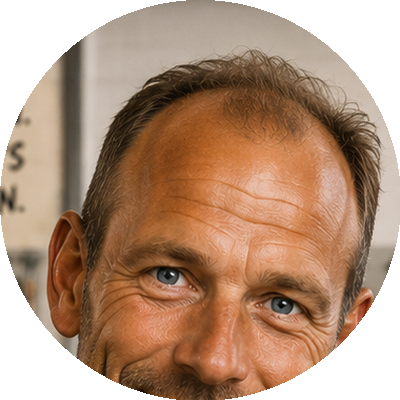
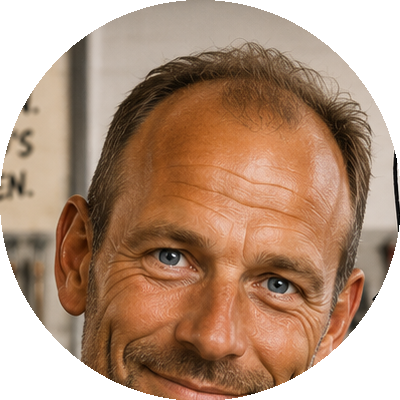
Add files via upload

diff --git a/styles.css b/styles.css
@@ -1173,24 +1173,26 @@ hr { border: none; border-top: 1px solid var(--border-light); margin: 2rem 0; }
 /* ===== KNIGGE-TIPP (Maskottchen-Hinweisbox) ===== */
 .knigge-tip {
   display: flex;
-  align-items: flex-start;
-  gap: 1rem;
+  align-items: center;
+  gap: 0.85rem;
   background: var(--green-50);
   border: 1px solid var(--green-100);
   border-left: 4px solid var(--gold-600);
   border-radius: var(--radius);
-  padding: 1.1rem 1.3rem;
+  padding: 0.95rem 1.3rem;
   margin: 1.75rem 0;
   box-shadow: var(--shadow-xs);
 }
 .knigge-tip-avatar {
   flex: 0 0 auto;
-  width: 52px;
-  height: 52px;
+  width: 34px;
+  height: 34px;
   border-radius: 50%;
   overflow: hidden;
   border: 2px solid var(--white);
   box-shadow: 0 2px 6px rgba(10,28,22,0.18);
+  align-self: flex-start;
+  margin-top: 0.15rem;
 }
 .knigge-tip-avatar img {
   width: 100%;
@@ -1198,28 +1200,6 @@ hr { border: none; border-top: 1px solid var(--border-light); margin: 2rem 0; }
   object-fit: cover;
 }
 .knigge-tip-body { flex: 1 1 auto; }
-.knigge-tip-name {
-  font-family: var(--font-display);
-  font-weight: 800;
-  font-size: 0.92rem;
-  color: var(--green-800);
-  margin-bottom: 0.25rem;
-  display: flex;
-  align-items: center;
-  gap: 0.4rem;
-}
-.knigge-tip-name::after {
-  content: 'Praxis-Tipp';
-  font-family: var(--font-body);
-  font-weight: 700;
-  font-size: 0.68rem;
-  letter-spacing: 0.04em;
-  text-transform: uppercase;
-  color: var(--gold-700);
-  background: var(--gold-100);
-  padding: 0.15rem 0.55rem;
-  border-radius: var(--radius-pill);
-}
 .knigge-tip-body p {
   margin: 0;
   color: var(--text-body);

diff --git a/index.html b/index.html
@@ -61,18 +61,10 @@
           <p class="lead">Der moderne Autoknigge verbindet souveränes Verhalten im Straßenverkehr <br class="desktop-br">mit praxisnahen Anleitungen zur Fahrzeugpflege, Behördengängen und den besten Spartipps für Versicherung und Autokauf.</p>
         </div>
         <div class="hero-portrait">
-          <img src="knigge-hero.jpg" alt="Herr Knigge erklärt Kfz-Themen einfach, ehrlich und auf den Punkt" loading="eager">
+          <img src="knigge-hero.jpg" alt="Knigge erklärt Kfz-Themen einfach, ehrlich und auf den Punkt" loading="eager">
         </div>
       </div>
     </section>
-
-    <div class="knigge-tip">
-      <div class="knigge-tip-avatar"><img src="knigge-avatar.png" alt="Herr Knigge"></div>
-      <div class="knigge-tip-body">
-        <div class="knigge-tip-name">Herr Knigge</div>
-        <p>Die meisten Autofahrer verschenken jedes Jahr Geld – nicht aus Unwissen, sondern weil Fristen und Kleingedrucktes einfach übersehen werden. Mein Rat: Nehmen Sie sich einmal im Jahr zehn Minuten für Versicherung, Zulassung und Wartung. Das zahlt sich fast immer aus.</p>
-      </div>
-    </div>
 
     <!-- KATEGORIE 1: VERSICHERUNG -->
     <section id="versicherung" class="topic-section">

diff --git a/artikel-sf-klassen.html b/artikel-sf-klassen.html
@@ -45,10 +45,9 @@
     <p class="lead">Die Schadenfreiheitsklasse (SF-Klasse) ist einer der wichtigsten Faktoren für Ihre Kfz-Versicherungsprämie. Erfahren Sie, wie sie berechnet wird, wie Sie sie verbessern können und wie Sie mit unserem interaktiven Rechner Ihre Einstufung prüfen.</p>
 
     <div class="knigge-tip">
-      <div class="knigge-tip-avatar"><img src="knigge-avatar.png" alt="Herr Knigge"></div>
+      <div class="knigge-tip-avatar"><img src="knigge-avatar.png" alt="Knigge"></div>
       <div class="knigge-tip-body">
-        <div class="knigge-tip-name">Herr Knigge</div>
-        <p>Bei einem sehr kleinen Schaden lohnt sich oft die Kopfrechnung: Vergleichen Sie die Selbstzahlung mit den Mehrkosten durch die Rückstufung über mehrere Jahre – meist ist Selbstzahlen günstiger.</p>
+        <p><strong>Knigge meint:</strong> Bei einem sehr kleinen Schaden lohnt sich oft die Kopfrechnung: Vergleichen Sie die Selbstzahlung mit den Mehrkosten durch die Rückstufung über mehrere Jahre – meist ist Selbstzahlen günstiger.</p>
       </div>
     </div>
 

diff --git a/artikel-auto-verkaufen.html b/artikel-auto-verkaufen.html
@@ -118,10 +118,9 @@
     <p class="lead">Der Verkauf eines Autos kann auf verschiedene Weise erfolgen. Mit der richtigen Vorbereitung und den passenden Tipps erzielen Sie den besten Preis und vermeiden Ärger.</p>
 
     <div class="knigge-tip">
-      <div class="knigge-tip-avatar"><img src="knigge-avatar.png" alt="Herr Knigge"></div>
+      <div class="knigge-tip-avatar"><img src="knigge-avatar.png" alt="Knigge"></div>
       <div class="knigge-tip-body">
-        <div class="knigge-tip-name">Herr Knigge</div>
-        <p>Ehrlichkeit zahlt sich beim Verkauf aus: Nennen Sie bekannte Mängel offen im Inserat. Das schafft Vertrauen und erspart Ihnen Diskussionen bei der Besichtigung.</p>
+        <p><strong>Knigge meint:</strong> Ehrlichkeit zahlt sich beim Verkauf aus: Nennen Sie bekannte Mängel offen im Inserat. Das schafft Vertrauen und erspart Ihnen Diskussionen bei der Besichtigung.</p>
       </div>
     </div>
     <div class="partner-section" style="margin: 2rem 0;">

diff --git a/artikel-kfz-versicherung-wechseln.html b/artikel-kfz-versicherung-wechseln.html
@@ -45,10 +45,9 @@
     <p class="lead">Ein Wechsel der Kfz-Versicherung kann sich lohnen. Mit den richtigen Tipps sparen Sie bis zu 300 € im Jahr – und der Wechsel ist einfacher als Sie denken.</p>
 
     <div class="knigge-tip">
-      <div class="knigge-tip-avatar"><img src="knigge-avatar.png" alt="Herr Knigge"></div>
+      <div class="knigge-tip-avatar"><img src="knigge-avatar.png" alt="Knigge"></div>
       <div class="knigge-tip-body">
-        <div class="knigge-tip-name">Herr Knigge</div>
-        <p>Kündigen Sie erst, wenn der neue Vertrag steht – sonst riskieren Sie eine Deckungslücke. Die meisten neuen Versicherer übernehmen die Kündigung sowieso automatisch für Sie.</p>
+        <p><strong>Knigge meint:</strong> Kündigen Sie erst, wenn der neue Vertrag steht – sonst riskieren Sie eine Deckungslücke. Die meisten neuen Versicherer übernehmen die Kündigung sowieso automatisch für Sie.</p>
       </div>
     </div>
     <div class="partner-section">

diff --git a/artikel-innenraum-werterhalt.html b/artikel-innenraum-werterhalt.html
@@ -45,10 +45,9 @@
     <p class="lead">Ein sauberer Innenraum ist nicht nur eine Frage der Ästhetik, sondern auch der Hygiene und des Werterhalts. Mit der richtigen Pflege und den passenden Werkzeugen bleibt Ihr Auto lange frisch und gepflegt.</p>
 
     <div class="knigge-tip">
-      <div class="knigge-tip-avatar"><img src="knigge-avatar.png" alt="Herr Knigge"></div>
+      <div class="knigge-tip-avatar"><img src="knigge-avatar.png" alt="Knigge"></div>
       <div class="knigge-tip-body">
-        <div class="knigge-tip-name">Herr Knigge</div>
-        <p>Saugen Sie den Innenraum regelmäßig, nicht nur vor dem Verkauf – Sand und Krümel wirken wie Schleifpapier und schädigen Polster und Teppiche auf Dauer.</p>
+        <p><strong>Knigge meint:</strong> Saugen Sie den Innenraum regelmäßig, nicht nur vor dem Verkauf – Sand und Krümel wirken wie Schleifpapier und schädigen Polster und Teppiche auf Dauer.</p>
       </div>
     </div>
     <section>

diff --git a/artikel-kennzeichen-reservieren.html b/artikel-kennzeichen-reservieren.html
@@ -45,10 +45,9 @@
     <p class="lead">Ein Wunschkennzeichen ist persönlich und macht Ihr Auto individuell. Mit der Online-Reservierung sichern Sie sich Ihre Wunsch-Kombination – und mit ein wenig Planung sparen Sie bares Geld.</p>
 
     <div class="knigge-tip">
-      <div class="knigge-tip-avatar"><img src="knigge-avatar.png" alt="Herr Knigge"></div>
+      <div class="knigge-tip-avatar"><img src="knigge-avatar.png" alt="Knigge"></div>
       <div class="knigge-tip-body">
-        <div class="knigge-tip-name">Herr Knigge</div>
-        <p>Reservieren Sie Ihr Wunschkennzeichen online, bevor Sie zur Zulassungsstelle fahren – die Reservierung ist meist kostenlos und gilt in der Regel mehrere Wochen.</p>
+        <p><strong>Knigge meint:</strong> Reservieren Sie Ihr Wunschkennzeichen online, bevor Sie zur Zulassungsstelle fahren – die Reservierung ist meist kostenlos und gilt in der Regel mehrere Wochen.</p>
       </div>
     </div>
     <section>

diff --git a/artikel-zweitwagen-versicherung.html b/artikel-zweitwagen-versicherung.html
@@ -45,10 +45,9 @@
     <p class="lead">Die Versicherung eines Zweitwagens kann teuer sein. Mit der richtigen Einstufung über Eltern oder Partner sparen Sie hunderte Euro – und der Zweitwagen wird zur günstigen Alternative.</p>
 
     <div class="knigge-tip">
-      <div class="knigge-tip-avatar"><img src="knigge-avatar.png" alt="Herr Knigge"></div>
+      <div class="knigge-tip-avatar"><img src="knigge-avatar.png" alt="Knigge"></div>
       <div class="knigge-tip-body">
-        <div class="knigge-tip-name">Herr Knigge</div>
-        <p>Fragen Sie gezielt nach einer Zweitwagen-Einstufung bei Ihrer bestehenden Versicherung – die ist oft deutlich günstiger als ein komplett neuer Vertrag.</p>
+        <p><strong>Knigge meint:</strong> Fragen Sie gezielt nach einer Zweitwagen-Einstufung bei Ihrer bestehenden Versicherung – die ist oft deutlich günstiger als ein komplett neuer Vertrag.</p>
       </div>
     </div>
     <div class="partner-section">

diff --git a/artikel-e-auto-vs-benziner.html b/artikel-e-auto-vs-benziner.html
@@ -45,10 +45,9 @@
     <p class="lead">Die Entscheidung zwischen Elektroauto und Verbrenner ist eine der wichtigsten Fragen beim Autokauf. Ein umfassender Vergleich der Gesamtkosten hilft Ihnen bei der Entscheidung.</p>
 
     <div class="knigge-tip">
-      <div class="knigge-tip-avatar"><img src="knigge-avatar.png" alt="Herr Knigge"></div>
+      <div class="knigge-tip-avatar"><img src="knigge-avatar.png" alt="Knigge"></div>
       <div class="knigge-tip-body">
-        <div class="knigge-tip-name">Herr Knigge</div>
-        <p>Rechnen Sie nicht nur den Kaufpreis, sondern die Gesamtkosten über mehrere Jahre – Energie, Wartung und Wertverlust machen oft den größeren Unterschied.</p>
+        <p><strong>Knigge meint:</strong> Rechnen Sie nicht nur den Kaufpreis, sondern die Gesamtkosten über mehrere Jahre – Energie, Wartung und Wertverlust machen oft den größeren Unterschied.</p>
       </div>
     </div>
     <div class="partner-section">

diff --git a/artikel-auto-abmelden.html b/artikel-auto-abmelden.html
@@ -45,10 +45,9 @@
     <p class="lead">Sie möchten Ihr Auto abmelden? Das geht online oder vor Ort bei Ihrer Zulassungsstelle. Hier erfahren Sie, welche Unterlagen Sie brauchen und wie Sie vorgehen.</p>
 
     <div class="knigge-tip">
-      <div class="knigge-tip-avatar"><img src="knigge-avatar.png" alt="Herr Knigge"></div>
+      <div class="knigge-tip-avatar"><img src="knigge-avatar.png" alt="Knigge"></div>
       <div class="knigge-tip-body">
-        <div class="knigge-tip-name">Herr Knigge</div>
-        <p>Vergessen Sie nicht, Ihre Kfz-Versicherung nach der Abmeldung zu informieren – oft bekommen Sie einen Teil des Beitrags für die restliche Laufzeit zurückerstattet.</p>
+        <p><strong>Knigge meint:</strong> Vergessen Sie nicht, Ihre Kfz-Versicherung nach der Abmeldung zu informieren – oft bekommen Sie einen Teil des Beitrags für die restliche Laufzeit zurückerstattet.</p>
       </div>
     </div>
     <section>

diff --git a/artikel-lichthupe-draengler.html b/artikel-lichthupe-draengler.html
@@ -45,10 +45,9 @@
     <p class="lead">Die Lichthupe ist ein umstrittenes Verkehrsmittel. Wann ist sie erlaubt, wann ist sie Nötigung? Und wie verhalten Sie sich bei Dränglern richtig?</p>
 
     <div class="knigge-tip">
-      <div class="knigge-tip-avatar"><img src="knigge-avatar.png" alt="Herr Knigge"></div>
+      <div class="knigge-tip-avatar"><img src="knigge-avatar.png" alt="Knigge"></div>
       <div class="knigge-tip-body">
-        <div class="knigge-tip-name">Herr Knigge</div>
-        <p>Bei Drängelei gilt: ruhig bleiben und bei nächster Gelegenheit rechts einordnen. Lassen Sie sich nicht provozieren – das schützt Sie und Ihren Führerschein.</p>
+        <p><strong>Knigge meint:</strong> Bei Drängelei gilt: ruhig bleiben und bei nächster Gelegenheit rechts einordnen. Lassen Sie sich nicht provozieren – das schützt Sie und Ihren Führerschein.</p>
       </div>
     </div>
     <div class="partner-section">

diff --git a/artikel-auto-ummelden.html b/artikel-auto-ummelden.html
@@ -45,10 +45,9 @@
     <p class="lead">Bei einem Umzug in eine andere Stadt oder bei einem Kennzeichenwechsel müssen Sie Ihr Auto ummelden. Hier erfahren Sie, was Sie beachten müssen.</p>
 
     <div class="knigge-tip">
-      <div class="knigge-tip-avatar"><img src="knigge-avatar.png" alt="Herr Knigge"></div>
+      <div class="knigge-tip-avatar"><img src="knigge-avatar.png" alt="Knigge"></div>
       <div class="knigge-tip-body">
-        <div class="knigge-tip-name">Herr Knigge</div>
-        <p>Nach einem Umzug haben Sie eine gesetzliche Frist, um Ihr Fahrzeug umzumelden. Warten Sie nicht zu lange – ein verspätetes Ummelden kann ein Bußgeld nach sich ziehen.</p>
+        <p><strong>Knigge meint:</strong> Nach einem Umzug haben Sie eine gesetzliche Frist, um Ihr Fahrzeug umzumelden. Warten Sie nicht zu lange – ein verspätetes Ummelden kann ein Bußgeld nach sich ziehen.</p>
       </div>
     </div>
     <section>
